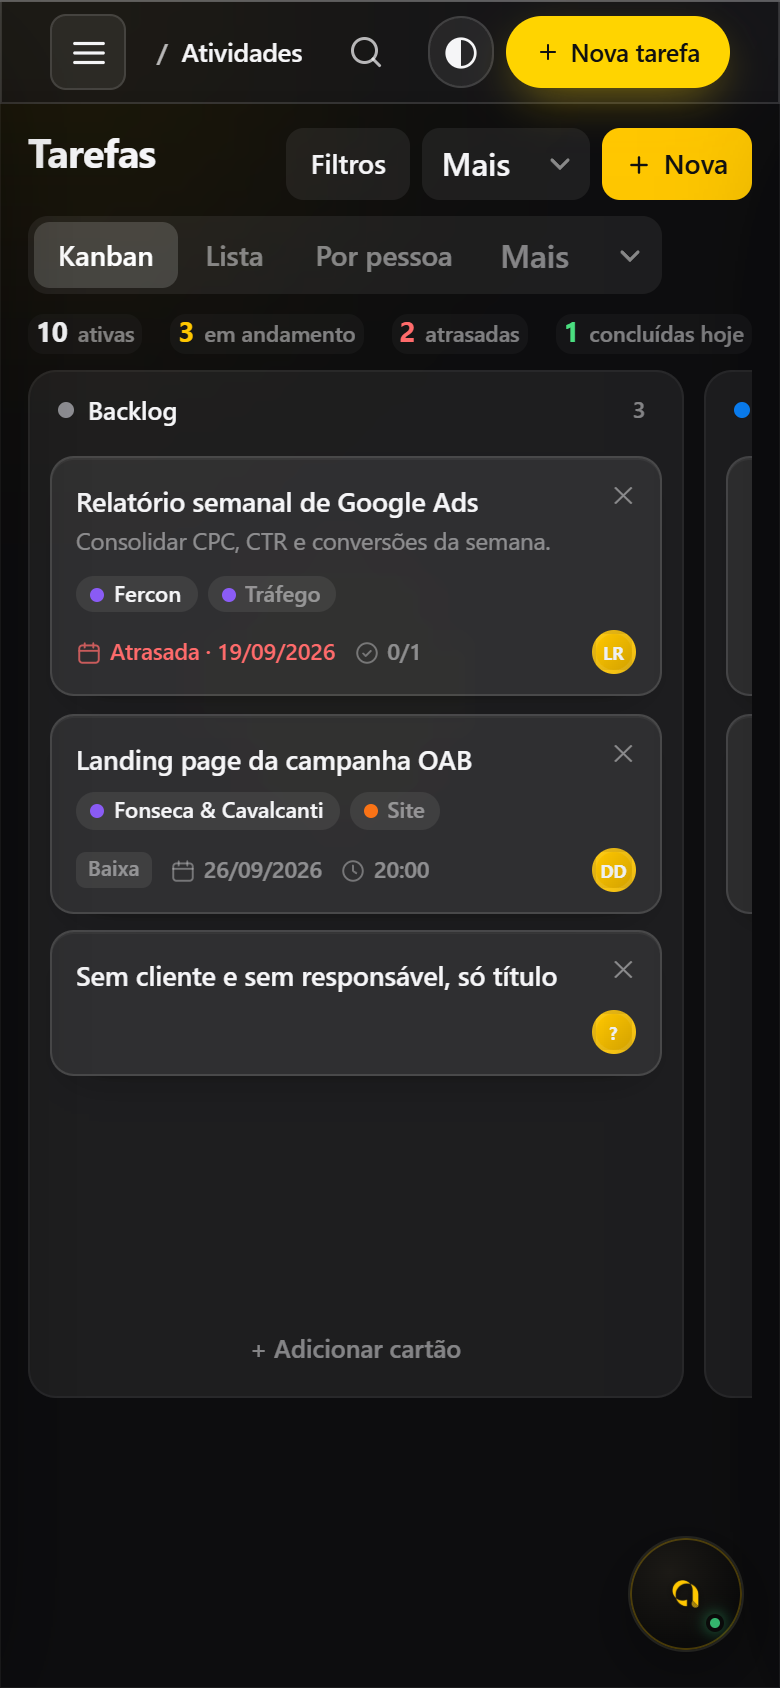
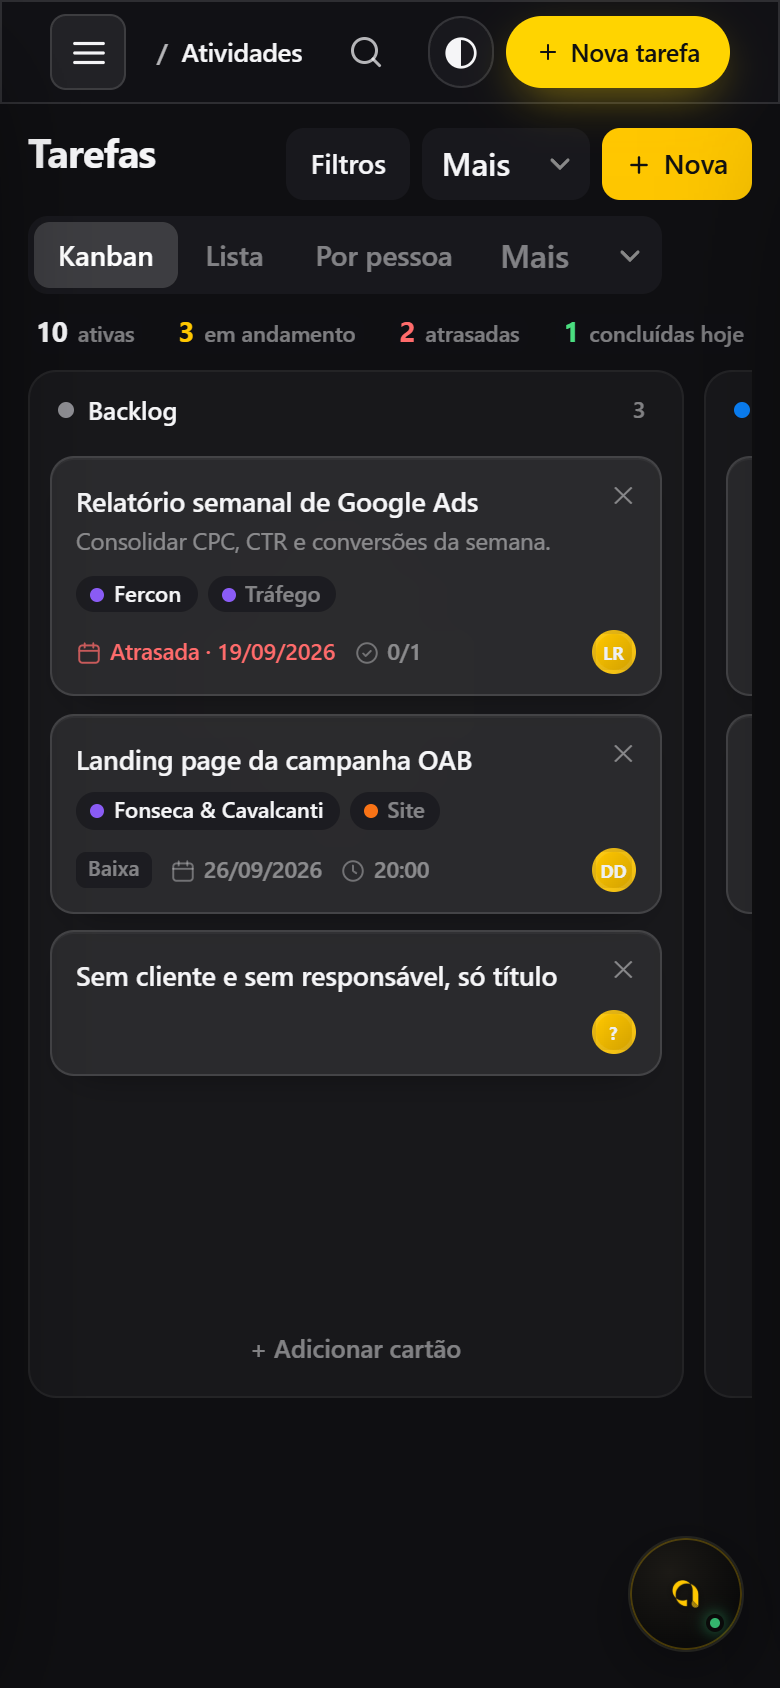
Next: menos vidro (cartões opacos, blur só em sidebar e topo, luz de fundo mais discreta)

Changed region(s): [[0.0923, 0.4621, 0.5846, 0.5237], [0.0923, 0.3389, 0.4308, 0.3697]]

diff --git a/public/workflowark-next-20260921a.css b/public/workflowark-next-20260921a.css
@@ -8,10 +8,10 @@
 
 body.next{
   --g-bg:#050506;
-  --g-glass:rgba(255,255,255,.07);--g-glass2:rgba(255,255,255,.12);--g-glass3:rgba(255,255,255,.18);
-  --g-line:rgba(255,255,255,.12);--g-line2:rgba(255,255,255,.22);--g-hi:rgba(255,255,255,.35);
+  --g-glass:rgba(26,26,30,.86);--g-glass2:rgba(255,255,255,.08);--g-glass3:rgba(255,255,255,.14);
+  --g-line:rgba(255,255,255,.12);--g-line2:rgba(255,255,255,.22);--g-hi:rgba(255,255,255,.18);
   --g-ink:#f5f5f7;--g-ink2:rgba(245,245,247,.72);--g-ink3:rgba(245,245,247,.48);
-  --g-solid:#151518;--g-r:26px;--g-rs:16px;--g-blur:blur(34px) saturate(1.6);
+  --g-solid:#151518;--g-r:26px;--g-rs:16px;--g-blur:blur(18px) saturate(1.25);
   --g-sh:0 20px 60px -20px rgba(0,0,0,.7),0 1px 0 rgba(255,255,255,.06);
   --g-font:Inter,-apple-system,BlinkMacSystemFont,"SF Pro Text","Segoe UI",system-ui,sans-serif;
   --bg:var(--g-bg);--surface:var(--g-glass);--line:var(--g-line);--line-2:var(--g-line2);
@@ -20,7 +20,7 @@ body.next{
 }
 body.next.aura-light{
   --g-bg:#e9e9ee;
-  --g-glass:rgba(255,255,255,.55);--g-glass2:rgba(255,255,255,.72);--g-glass3:rgba(255,255,255,.9);
+  --g-glass:rgba(255,255,255,.92);--g-glass2:rgba(17,17,20,.05);--g-glass3:rgba(17,17,20,.09);
   --g-line:rgba(17,17,20,.08);--g-line2:rgba(17,17,20,.16);--g-hi:rgba(255,255,255,.95);
   --g-ink:#111114;--g-ink2:rgba(17,17,20,.7);--g-ink3:rgba(17,17,20,.46);
   --g-solid:#ffffff;--g-sh:0 20px 60px -24px rgba(0,0,0,.25),0 1px 0 rgba(255,255,255,.8);
@@ -30,19 +30,21 @@ body.next.aura-light{
 body.next,body.next .app{background:var(--g-bg)}
 body.next .app{position:relative;padding:12px;gap:12px;isolation:isolate}
 body.next .app::before,body.next .app::after{content:"";position:absolute;border-radius:50%;pointer-events:none;z-index:-1;filter:blur(80px)}
-body.next .app::before{width:60vw;height:60vw;left:-18vw;top:-24vw;background:radial-gradient(circle,rgba(255,199,0,.22),rgba(255,199,0,0) 70%)}
-body.next .app::after{width:50vw;height:50vw;right:-16vw;bottom:-20vw;background:radial-gradient(circle,rgba(120,140,255,.14),rgba(120,140,255,0) 70%)}
+body.next .app::before{width:60vw;height:60vw;left:-18vw;top:-24vw;background:radial-gradient(circle,rgba(255,199,0,.12),rgba(255,199,0,0) 70%)}
+body.next .app::after{width:50vw;height:50vw;right:-16vw;bottom:-20vw;background:radial-gradient(circle,rgba(120,140,255,.07),rgba(120,140,255,0) 70%)}
 body.next.aura-light .app::before{background:radial-gradient(circle,rgba(255,199,0,.45),rgba(255,199,0,0) 70%)}
 body.next.aura-light .app::after{background:radial-gradient(circle,rgba(120,140,255,.28),rgba(120,140,255,0) 70%)}
 body.next .main::before,body.next .main::after{display:none}
 
 /* vidro base */
-body.next .side,body.next .main,body.next .topbar,body.next .card,body.next .kpi,body.next .widget,body.next .md-card,body.next .md-block,
-body.next .aura-hero,body.next .aura-card,body.next .aura-stat,body.next .aura-goal,body.next .tb-search,body.next .tb-pill,body.next .tabs,
-body.next .task-col,body.next #gsearch-res,body.next .pp-dd{
-  background:var(--g-glass);border:1px solid var(--g-line);
+body.next .side,body.next .topbar,body.next #gsearch-res,body.next .pp-dd{
+  background:rgba(22,22,26,.6);border:1px solid var(--g-line);
   backdrop-filter:var(--g-blur);-webkit-backdrop-filter:var(--g-blur);
-  box-shadow:inset 0 1px 0 var(--g-hi),inset 0 0 0 .5px rgba(255,255,255,.06),var(--g-sh)}
+  box-shadow:inset 0 1px 0 var(--g-hi),var(--g-sh)}
+body.next.aura-light .side,body.next.aura-light .topbar{background:rgba(255,255,255,.62)}
+body.next .main,body.next .card,body.next .kpi,body.next .widget,body.next .md-card,body.next .md-block,
+body.next .aura-hero,body.next .aura-card,body.next .aura-stat,body.next .aura-goal,body.next .tb-search,body.next .tb-pill,body.next .tabs,body.next .task-col{
+  background:var(--g-glass);border:1px solid var(--g-line);box-shadow:inset 0 1px 0 rgba(255,255,255,.06)}
 @supports not ((backdrop-filter:blur(1px)) or (-webkit-backdrop-filter:blur(1px))){
   body.next .side,body.next .main,body.next .topbar,body.next .card,body.next .kpi,body.next .task-col,body.next .tabs{background:var(--g-solid)}}
 @media (prefers-reduced-transparency:reduce){
@@ -50,8 +52,8 @@ body.next .task-col,body.next #gsearch-res,body.next .pp-dd{
 
 /* moldura */
 body.next .side{border-radius:var(--g-r);border-right:1px solid var(--g-line)}
-body.next .main{border-radius:var(--g-r);background:rgba(255,255,255,.03);overflow:hidden}
-body.next.aura-light .main{background:rgba(255,255,255,.35)}
+body.next .main{border-radius:var(--g-r);background:#0f0f12;overflow:hidden}
+body.next.aura-light .main{background:#f4f4f6}
 @media (max-width:900px){
   body.next .app{padding:0;gap:0}
   body.next .side,body.next .main{border-radius:0;border:0}
